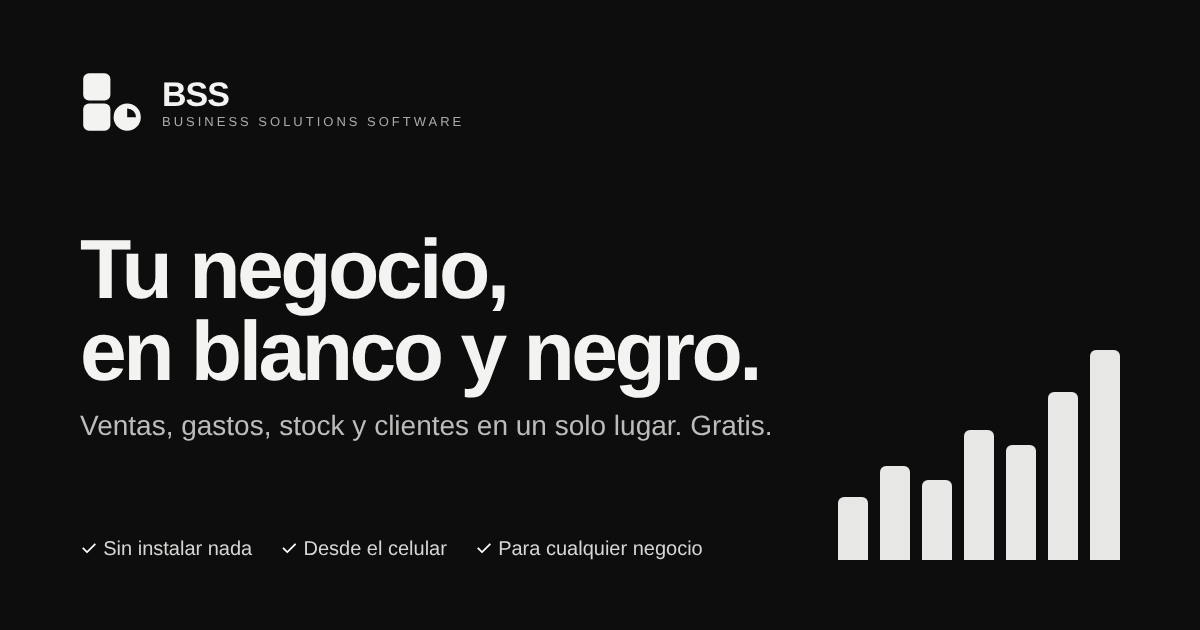
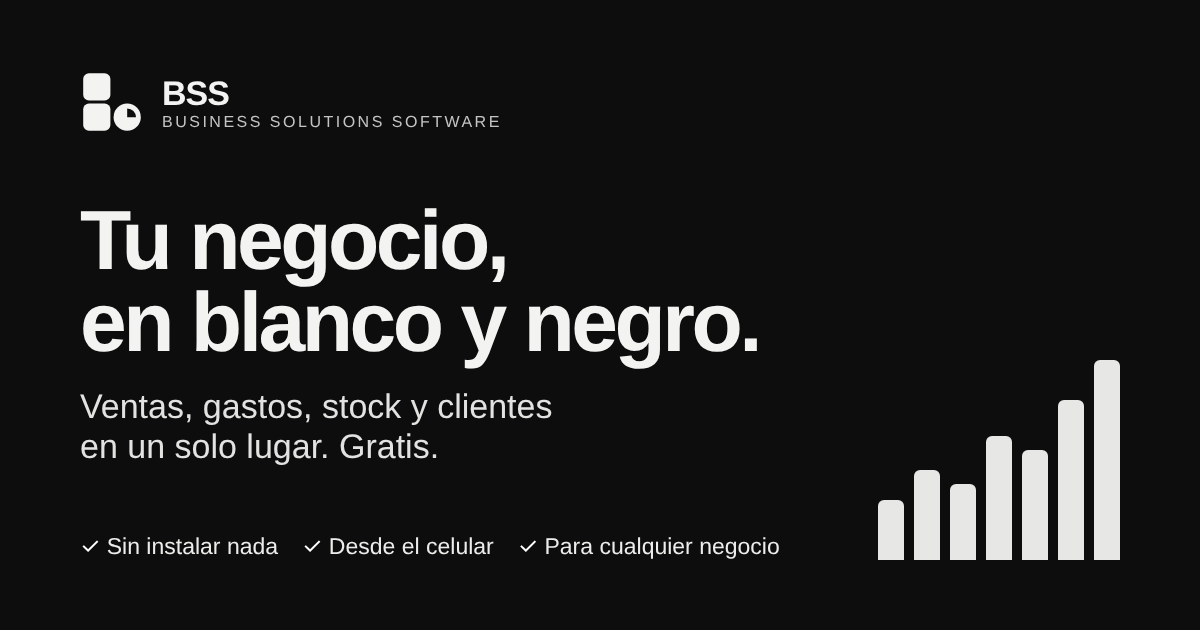
Sharper share image with larger small text
Claude-Session: https://claude.ai/code/session_01YBB2HvbXXuVfSaRqmpG5iZ

diff --git a/index.html b/index.html
@@ -11,12 +11,12 @@
 <meta property="og:title" content="BSS | Tu negocio, en blanco y negro">
 <meta property="og:description" content="Ventas, gastos, stock, clientes y proveedores en un solo lugar. Gratis, sin instalar nada y para cualquier negocio.">
 <meta property="og:url" content="https://retoapp-dev.github.io/bss-sitio/">
-<meta property="og:image" content="https://retoapp-dev.github.io/bss-sitio/og.png">
+<meta property="og:image" content="https://retoapp-dev.github.io/bss-sitio/og.png?v=2">
 <meta property="og:image:width" content="1200">
 <meta property="og:image:height" content="630">
 <meta property="og:locale" content="es_AR">
 <meta name="twitter:card" content="summary_large_image">
-<meta name="twitter:image" content="https://retoapp-dev.github.io/bss-sitio/og.png">
+<meta name="twitter:image" content="https://retoapp-dev.github.io/bss-sitio/og.png?v=2">
 <meta name="description" content="Ventas, gastos, stock, clientes y proveedores en un solo lugar. Gratis, sin instalar nada y para cualquier negocio.">
 <link rel="preconnect" href="https://fonts.googleapis.com">
 <link rel="preconnect" href="https://fonts.gstatic.com" crossorigin>
